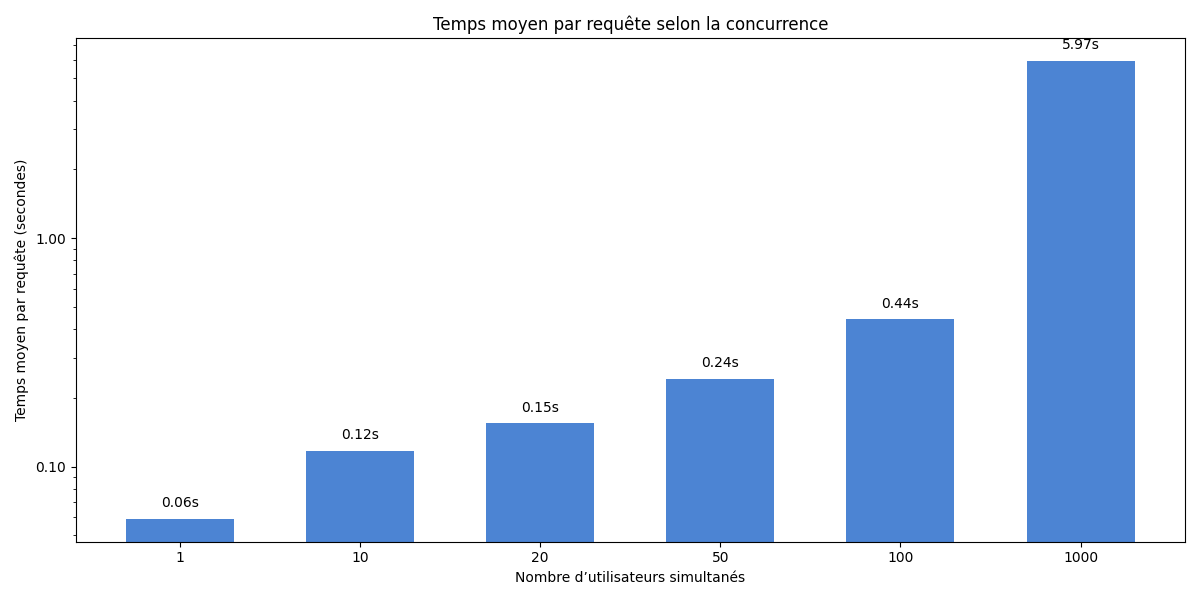
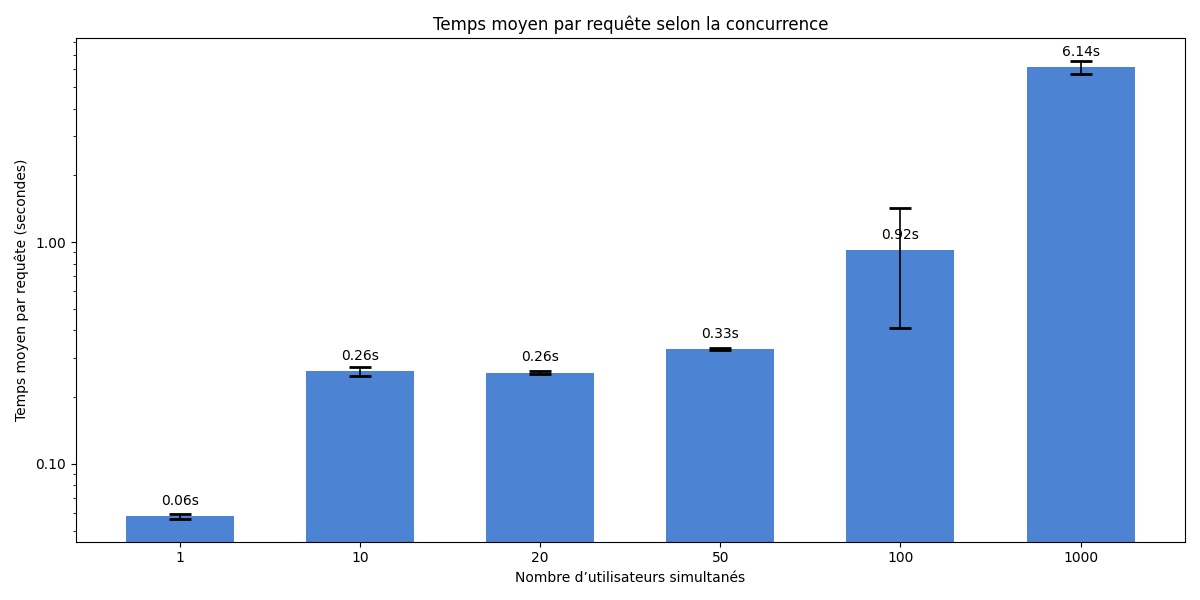
modification des fichiers pour qu'ils interrogent tous leur timeline

diff --git a/src/fanout/fanout_interrogate.py b/src/fanout/fanout_interrogate.py
@@ -1,35 +1,46 @@
-import subprocess
+import aiohttp
+import asyncio
+import time
 import csv
-import re
+import os
 
-params = [50]
-
+# Paramètres
+concurrent = 50
 runs = 3
-url = "http://tinyinsta-benchmark.ew.r.appspot.com/api/timeline?user=user1&limit=20"
+base_url = "http://tinyinsta-benchmark.ew.r.appspot.com/api/timeline"
+
+# Crée le dossier si nécessaire
+os.makedirs("fanout", exist_ok=True)
+
+async def fetch(session, url):
+    start = time.monotonic()
+    try:
+        async with session.get(url) as resp:
+            await resp.text()
+            return (time.monotonic() - start) * 1000, 0
+    except:
+        return None, 1
+
+async def run_test(urls):
+    async with aiohttp.ClientSession() as session:
+        tasks = [fetch(session, url) for url in urls]
+        return await asyncio.gather(*tasks)
 
 with open("fanout/fanout.csv", "w", newline="") as f:
     writer = csv.writer(f)
-    writer.writerow(["PARAM", "AVG_TIME", "RUN", "FAILED"])
+    writer.writerow(["RUN", "AVG_TIME", "FAILED"])
 
-    for concurrent in params:
-        amount = 200
-        for r in range(1, runs + 1):
-            print(f"Running test: {concurrent} concurrent, run {r}...")
+    for r in range(1, runs + 1):
+        print(f"Running test: 50 concurrent users, run {r}...")
 
-            result = subprocess.run(
-                ["hey", "-n", str(amount), "-c", str(concurrent), url],
-                capture_output=True,
-                text=True
-            )
-            output = result.stdout
+        # Chaque utilisateur distinct interroge sa timeline
+        urls = [f"{base_url}?user=user{i}&limit=20" for i in range(concurrent)]
 
-            # Extraire latence moyenne
-            match_lat = re.search(r"Average:\s+([\d\.]+)\s+secs", output)
-            avg_lat = float(match_lat.group(1)) * 1000 if match_lat else None  # convert to ms
+        results = asyncio.run(run_test(urls))
 
-            # Extraire erreurs
-            match_fail = re.search(r"Non-2xx responses:\s+(\d+)", output)
-            failed = int(match_fail.group(1)) if match_fail else 0
+        latencies = [lat for lat, fail in results if lat is not None]
+        failures = sum(fail for lat, fail in results)
+        avg_lat = sum(latencies) / len(latencies) if latencies else None
 
-            writer.writerow([concurrent, avg_lat, r, failed])
-            print(f"Done: AVG_LAT={avg_lat} ms, FAILED={failed}")
+        print(f"Done: AVG_LAT={avg_lat} ms, FAILED={failures}")
+        writer.writerow([r, avg_lat, failures])

diff --git a/src/post/post_interrogate.py b/src/post/post_interrogate.py
@@ -1,34 +1,46 @@
-import subprocess
+import aiohttp
+import asyncio
+import time
 import csv
-import re
+import os
 
-params = [50]
+# Paramètres
+concurrent = 50
 runs = 3
-url = "http://tinyinsta-benchmark.ew.r.appspot.com/api/timeline?user=user1&limit=20"
+base_url = "http://tinyinsta-benchmark.ew.r.appspot.com/api/timeline"
+
+# Crée le dossier si nécessaire
+os.makedirs("post", exist_ok=True)
+
+async def fetch(session, url):
+    start = time.monotonic()
+    try:
+        async with session.get(url) as resp:
+            await resp.text()
+            return (time.monotonic() - start) * 1000, 0
+    except:
+        return None, 1
+
+async def run_test(urls):
+    async with aiohttp.ClientSession() as session:
+        tasks = [fetch(session, url) for url in urls]
+        return await asyncio.gather(*tasks)
 
 with open("post/post.csv", "w", newline="") as f:
     writer = csv.writer(f)
-    writer.writerow(["PARAM", "AVG_TIME", "RUN", "FAILED"])
+    writer.writerow(["RUN", "AVG_TIME", "FAILED"])
 
-    for concurrent in params:
-        amount = concurrent
-        for r in range(1, runs + 1):
-            print(f"Running test: {concurrent} concurrent, run {r}...")
+    for r in range(1, runs + 1):
+        print(f"Running test: 50 concurrent users, run {r}...")
 
-            result = subprocess.run(
-                ["hey", "-n", str(amount), "-c", str(concurrent), url],
-                capture_output=True,
-                text=True
-            )
-            output = result.stdout
+        # Chaque utilisateur distinct interroge sa timeline
+        urls = [f"{base_url}?user=user{i}&limit=20" for i in range(concurrent)]
 
-            # Extraire latence moyenne
-            match_lat = re.search(r"Average:\s+([\d\.]+)\s+secs", output)
-            avg_lat = float(match_lat.group(1)) * 1000 if match_lat else None  # convert to ms
+        results = asyncio.run(run_test(urls))
 
-            # Extraire erreurs
-            match_fail = re.search(r"Non-2xx responses:\s+(\d+)", output)
-            failed = int(match_fail.group(1)) if match_fail else 0
+        latencies = [lat for lat, fail in results if lat is not None]
+        failures = sum(fail for lat, fail in results)
+        avg_lat = sum(latencies) / len(latencies) if latencies else None
 
-            writer.writerow([concurrent, avg_lat, r, failed])
-            print(f"Done: AVG_LAT={avg_lat} ms, FAILED={failed}")
+        print(f"Done: AVG_LAT={avg_lat} ms, FAILED={failures}")
+        writer.writerow([r, avg_lat, failures])

diff --git a/src/conc/conc_interrogate.py b/src/conc/conc_interrogate.py
@@ -1,34 +1,40 @@
-import subprocess
+import aiohttp
+import asyncio
+import time
 import csv
-import re
 
 params = [1, 10, 20, 50, 100, 1000]
 runs = 3
-url = "http://tinyinsta-benchmark.ew.r.appspot.com/api/timeline?user=user1&limit=20"
+base_url = "http://tinyinsta-benchmark.ew.r.appspot.com/api/timeline?limit=20"
+
+async def fetch(session, url):
+    start = time.monotonic()
+    try:
+        async with session.get(url) as resp:
+            await resp.text()
+            return (time.monotonic() - start) * 1000, 0
+    except:
+        return None, 1
+
+async def run_test(concurrent):
+    urls = [f"{base_url}&user=user{i}" for i in range(concurrent)]
+    async with aiohttp.ClientSession() as session:
+        tasks = [fetch(session, url) for url in urls]
+        return await asyncio.gather(*tasks)
 
 with open("conc/conc.csv", "w", newline="") as f:
     writer = csv.writer(f)
     writer.writerow(["PARAM", "AVG_TIME", "RUN", "FAILED"])
 
     for concurrent in params:
-        amount = concurrent
         for r in range(1, runs + 1):
-            print(f"Running test: {concurrent} concurrent, run {r}...")
+            print(f"Running test: {concurrent} concurrent users, run {r}...")
+            results = asyncio.run(run_test(concurrent))
 
-            result = subprocess.run(
-                ["hey", "-n", str(amount), "-c", str(concurrent), url],
-                capture_output=True,
-                text=True
-            )
-            output = result.stdout
+            latencies = [lat for lat, fail in results if lat is not None]
+            failures = sum(fail for lat, fail in results)
 
-            # Extraire latence moyenne
-            match_lat = re.search(r"Average:\s+([\d\.]+)\s+secs", output)
-            avg_lat = float(match_lat.group(1)) * 1000 if match_lat else None  # convert to ms
+            avg_lat = sum(latencies) / len(latencies) if latencies else None
 
-            # Extraire erreurs
-            match_fail = re.search(r"Non-2xx responses:\s+(\d+)", output)
-            failed = int(match_fail.group(1)) if match_fail else 0
-
-            writer.writerow([concurrent, avg_lat, r, failed])
-            print(f"Done: AVG_LAT={avg_lat} ms, FAILED={failed}")
+            print(f"Done: AVG_LAT={avg_lat} ms, FAILED={failures}")
+            writer.writerow([concurrent, avg_lat, r, failures])
